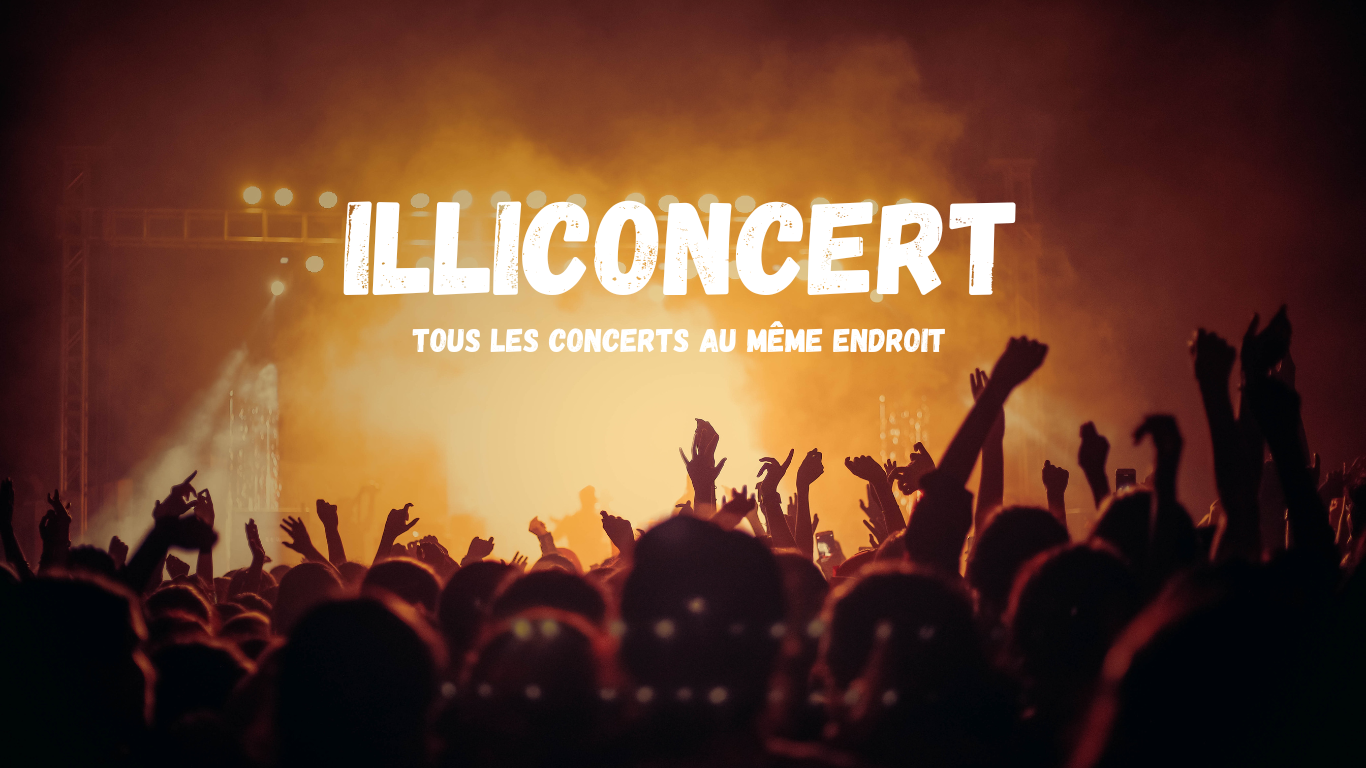
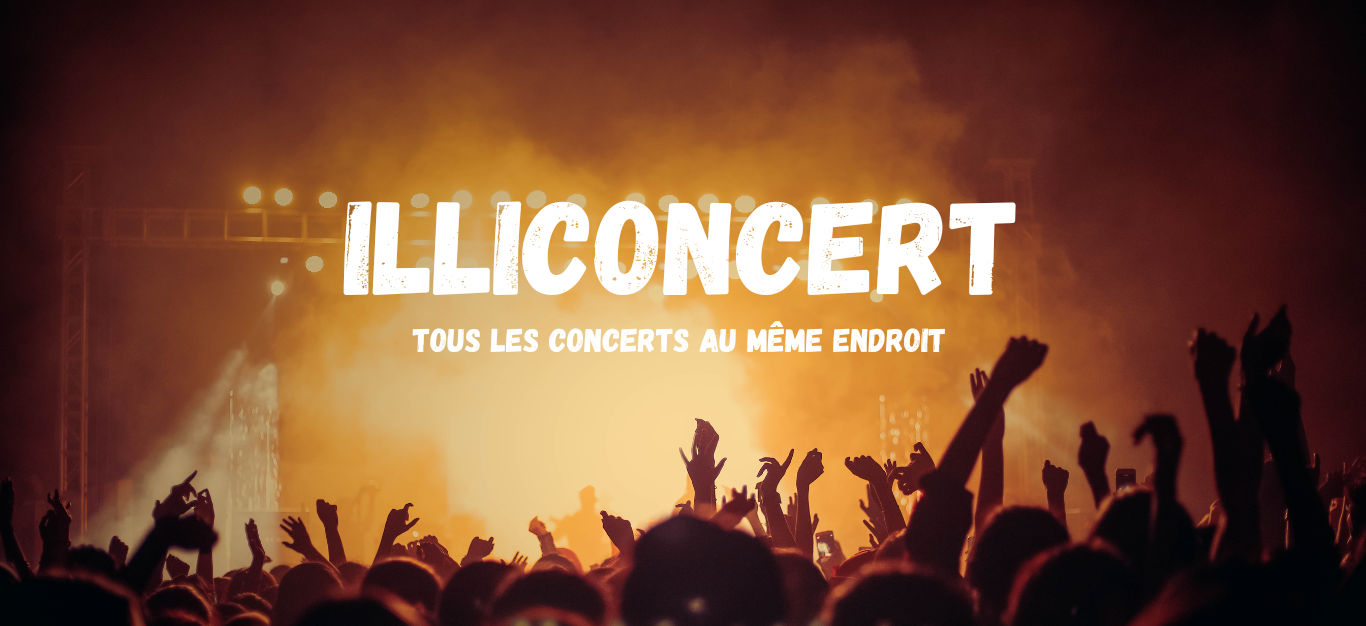
Fix du background décalé

diff --git a/src/app/home/home.component.html b/src/app/home/home.component.html
@@ -1,2 +1,2 @@
-      <img class="Background" src="assets/backgroundcut.png" rel="preload" alt="Background">
+      <img class="Background" src="assets/background.png" rel="preload" alt="Background">
       <div class="bouton" (click)="goToBientot()">Découvrez les prochaines dates !</div>

diff --git a/src/app/bientot/bientot.component.html b/src/app/bientot/bientot.component.html
@@ -1,4 +1,4 @@
-<img class="Background" src="assets/backgroundnologocut.png" rel="preload" alt="Background">
+<img class="Background" src="assets/backgroundnologo.png" rel="preload" alt="Background">
     <table class="festival-table">
         <thead>
             <tr>

diff --git a/src/app/home/home.component.scss b/src/app/home/home.component.scss
@@ -8,7 +8,7 @@
   align-items: center;
 
   .Background {
-    background-image: url('../../assets/backgroundcut.png');
+    background-image: url('../../assets/background.png');
     background-size: contain;
     background-position: center;
     width: 100%;
